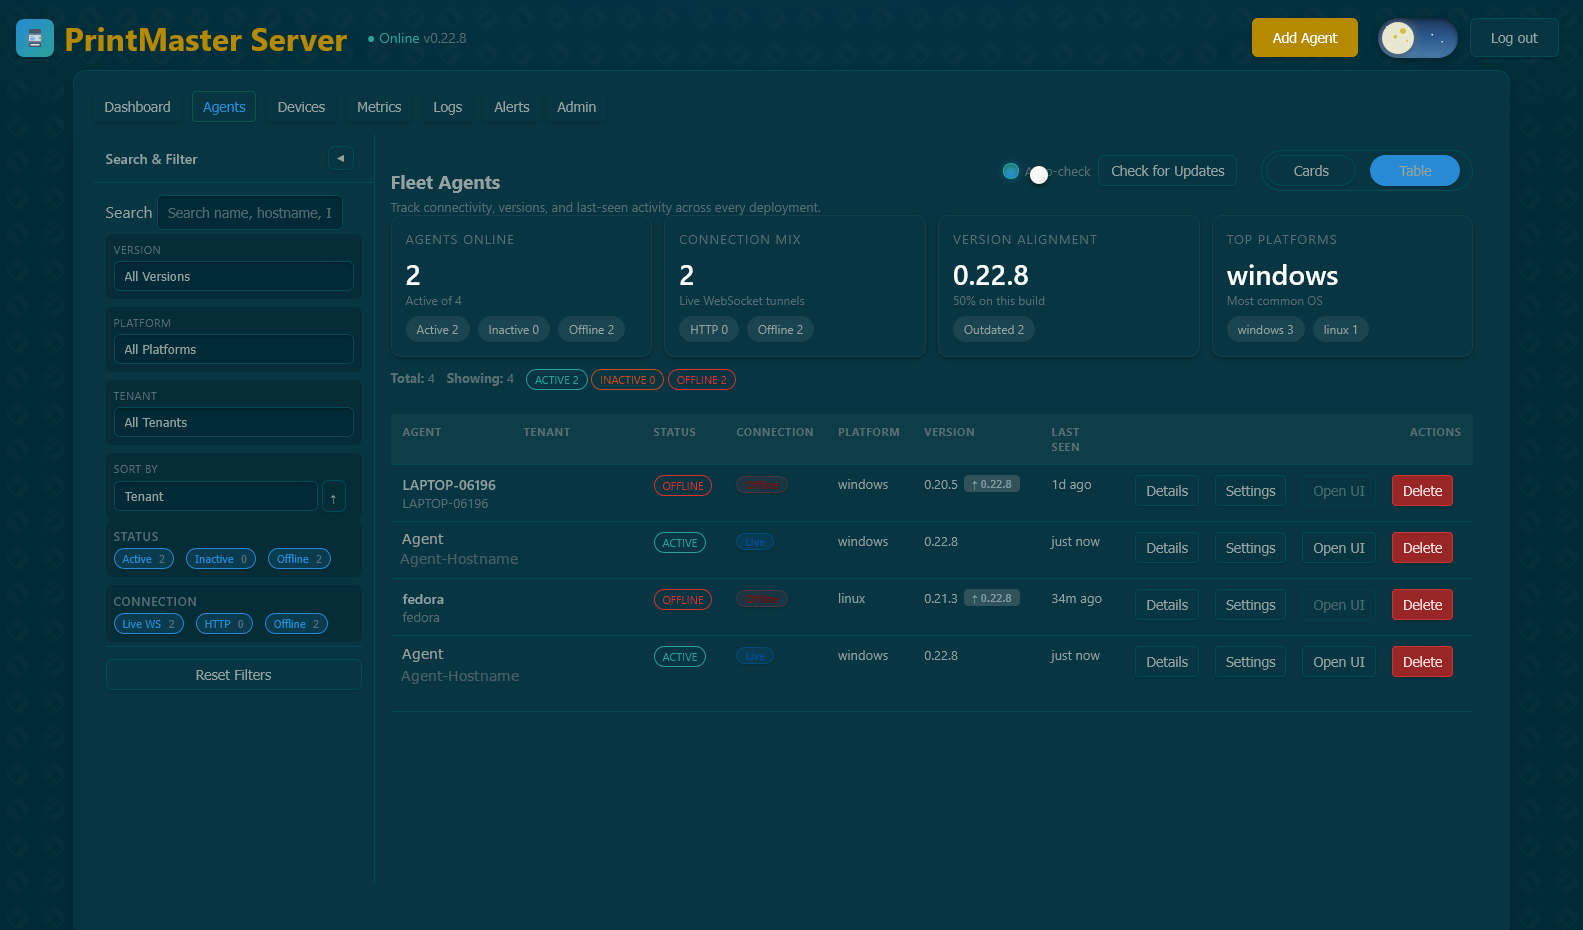
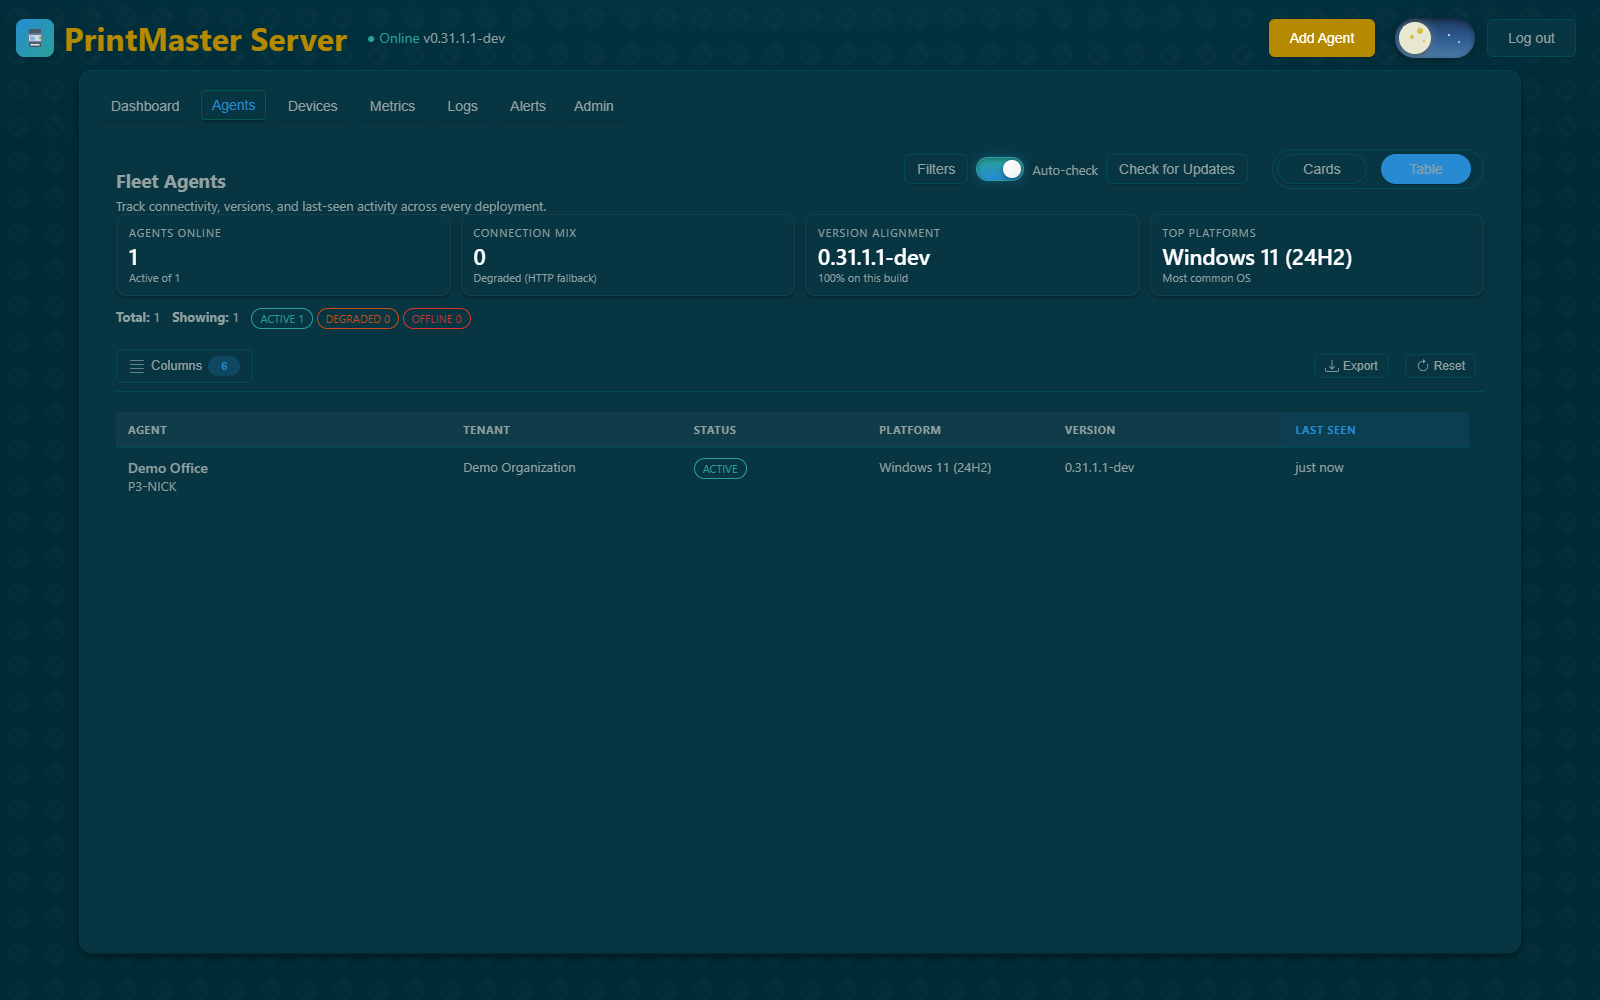
Refresh UI screenshots and document device details layout

diff --git a/content/guides/features.md b/content/guides/features.md
@@ -80,6 +80,14 @@ Fine-tune discovery behavior in **Settings** → **Discovery**:
 
 ## Device Monitoring
 
+Open **Details** on an agent device card to inspect identity, asset information,
+and the metrics overview. Capabilities appear beneath the device name; editable
+values have a labeled edit button beside them. Device information uses two columns
+on desktop and stacks on narrow screens. All screenshots in this guide use
+synthetic demo data.
+
+![Device identity, asset tag, location, and metrics overview](/media/docs/screenshots/Device%20Details%20-%20PrintMaster%20Agent.png)
+
 ### Collected Data
 
 For each discovered device, PrintMaster collects:
@@ -122,6 +130,11 @@ PrintMaster stores historical metrics using a tiered retention system:
 | Monthly | 1 month average | Forever |
 
 This allows you to track usage trends while keeping database size manageable.
+
+The server's **Metrics** tab brings fleet throughput and consumables history
+together with selectable time ranges.
+
+![Fleet throughput and consumables history charts](/media/docs/screenshots/Metrics%20-%20PrintMaster%20Server.png)
 
 ### Device Groups
 
@@ -170,6 +183,8 @@ The server provides:
 - **Combined Device List**: All devices from all sites in one view
 - **Cross-Site Reports**: Compare usage across locations
 - **Centralized Alerts**: Single pane for all site alerts
+
+![Expanded tenant, site, agent, and device hierarchy](/media/docs/screenshots/Dashboard%20-%20PrintMaster%20Server.png)
 
 ### Agent Naming
 
@@ -226,6 +241,10 @@ For device access:
 ---
 
 ## Alerts & Notifications
+
+The **Alerts** tab summarizes fleet health, alert categories, and recent events.
+
+![Fleet alert summary and recent events](/media/docs/screenshots/Alerts%20-%20PrintMaster%20Server.png)
 
 Get notified about important events and issues.
 
@@ -433,4 +452,3 @@ Configure webhooks to receive real-time notifications:
 - **Custom Dashboards**: Build your own UI
 
 See the [API Reference](/api/) for complete documentation.
-

diff --git a/content/project/overview.md b/content/project/overview.md
@@ -41,6 +41,9 @@ Contributions, feedback, and vendor-specific SNMP knowledge are welcome—printe
 
 ## Screenshots
 
+Captured from the current development UI on October 8, 2026, using a synthetic
+eight-printer fleet. Device names, counters, supplies, and alerts are demo data.
+
 <details>
 <summary><b>Dashboard</b> — Hierarchical view of tenants, sites, agents, and devices</summary>
 
@@ -69,6 +72,24 @@ Contributions, feedback, and vendor-specific SNMP knowledge are welcome—printe
 <summary><b>System Logs</b> — Real-time log streaming with search and filtering</summary>
 
 ![Logs](/media/docs/screenshots/Logs%20-%20PrintMaster%20Server.png)
+</details>
+
+<details>
+<summary><b>Fleet Alerts</b> — Fleet health, alert categories, and recent events</summary>
+
+![Fleet health and recent alerts](/media/docs/screenshots/Alerts%20-%20PrintMaster%20Server.png)
+</details>
+
+<details>
+<summary><b>Agent Devices</b> — Local printer cards with counters and consumables</summary>
+
+![Agent device cards and consumable levels](/media/docs/screenshots/Devices%20-%20PrintMaster%20Agent.png)
+</details>
+
+<details>
+<summary><b>Device Details</b> — Identity, location, asset tags, and usage metrics</summary>
+
+![Agent device details and metrics overview](/media/docs/screenshots/Device%20Details%20-%20PrintMaster%20Agent.png)
 </details>
 
 ## Quick Start
@@ -173,4 +194,3 @@ MIT License — see [LICENSE](https://github.com/Printmaster-Org/printmaster/blo
 - [Releases](https://github.com/printmaster-org/printmaster/releases)
 - [Issues](https://github.com/printmaster-org/printmaster/issues)
 - [Discussions](https://github.com/printmaster-org/printmaster/discussions)
-

diff --git a/content/guides/getting-started.md b/content/guides/getting-started.md
@@ -64,6 +64,13 @@ After the scan completes, discovered printers will appear in the Devices list sh
 - Page counts
 - Toner/ink levels
 
+The agent offers card and table views of saved devices. These screenshots use
+synthetic printers rather than a live customer fleet.
+
+![Agent device cards with consumable levels](/media/docs/screenshots/Devices%20-%20PrintMaster%20Agent.png)
+
+![Agent saved devices in table view](/media/docs/screenshots/Device%20Table%20-%20PrintMaster%20Agent.png)
+
 ---
 
 ## Server + Agent Setup
@@ -117,6 +124,8 @@ Restart the agent after saving.
 2. You should see your connected agent with a green status indicator
 3. The agent will begin uploading device data automatically
 
+![Server fleet agents with connection status and version information](/media/docs/screenshots/Agents%20-%20PrintMaster%20Server.png)
+
 ---
 
 ## Discovering Printers
@@ -146,6 +155,11 @@ You can specify which networks to scan:
 ### Discovery Settings
 
 Fine-tune discovery in **Settings** → **Discovery Settings**:
+
+The current Settings page groups automatic discovery, passive discovery, and
+metrics monitoring controls. The example below uses demo configuration.
+
+![Agent discovery settings and metrics monitoring controls](/media/docs/screenshots/Settings%20-%20PrintMaster%20Agent.png)
 
 | Setting | Description |
 |---------|-------------|
@@ -248,4 +262,3 @@ If you see WebSocket connection errors:
 3. Ensure the server's WebSocket port is accessible
 
 See the full [Troubleshooting Guide](/guides/troubleshooting/) for more solutions.
-
